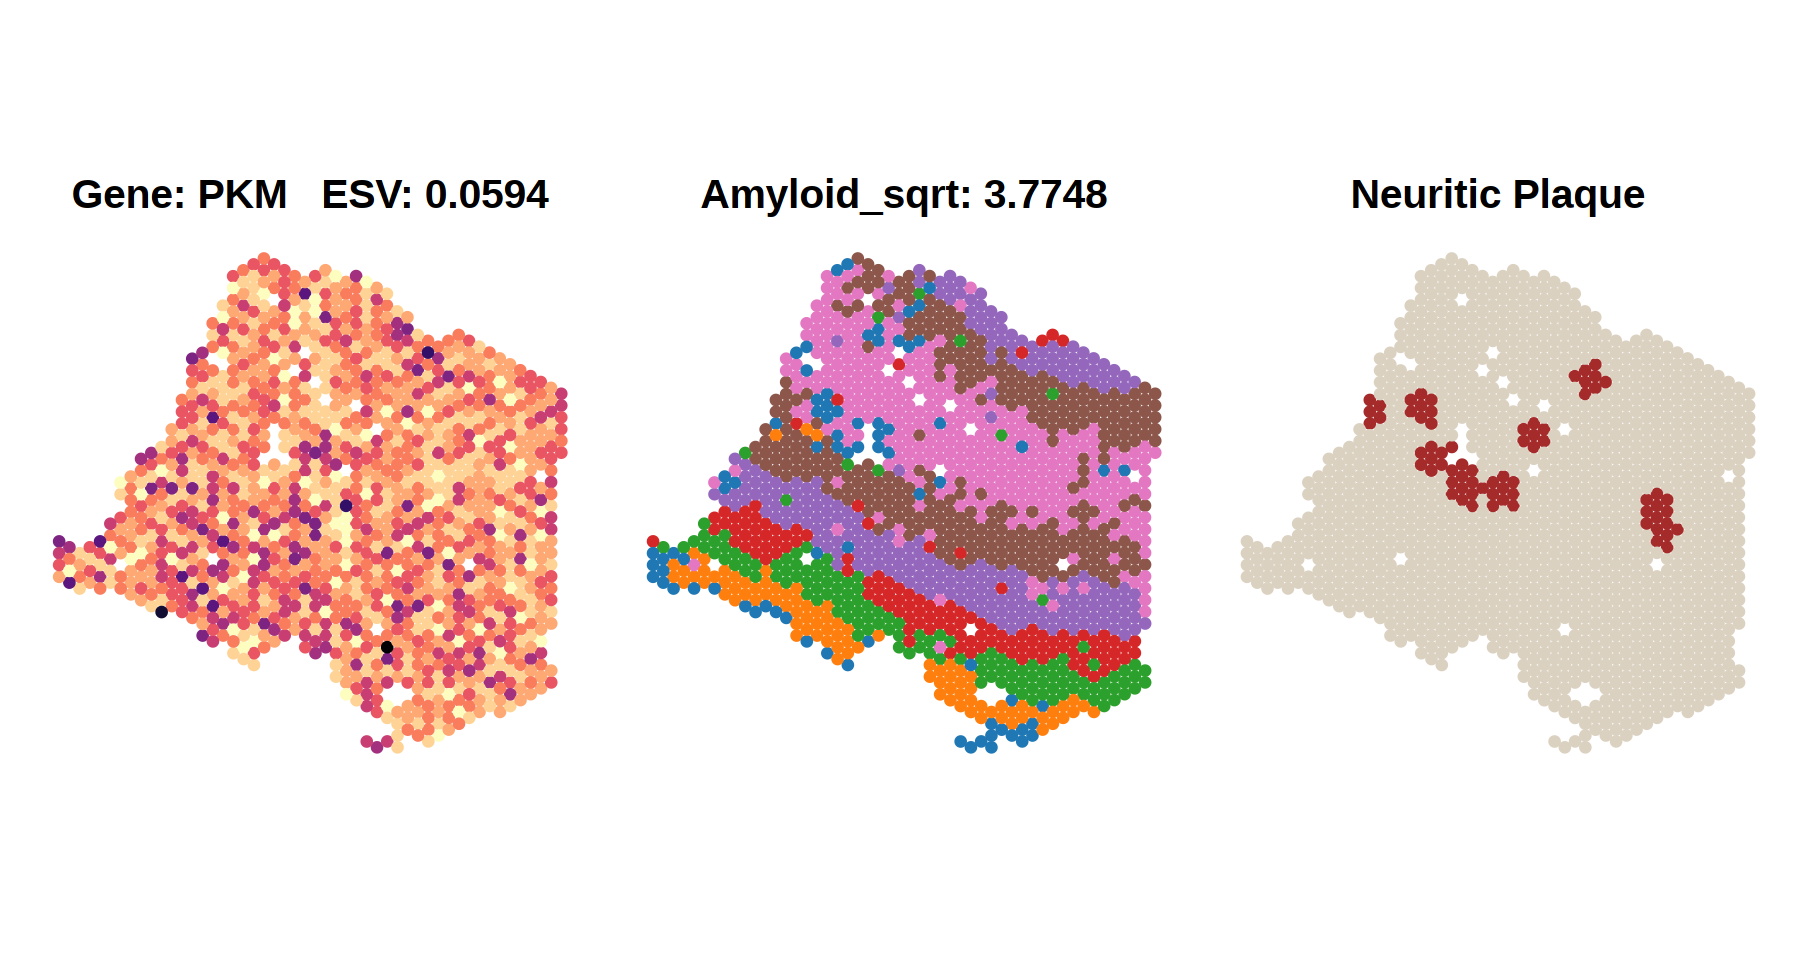
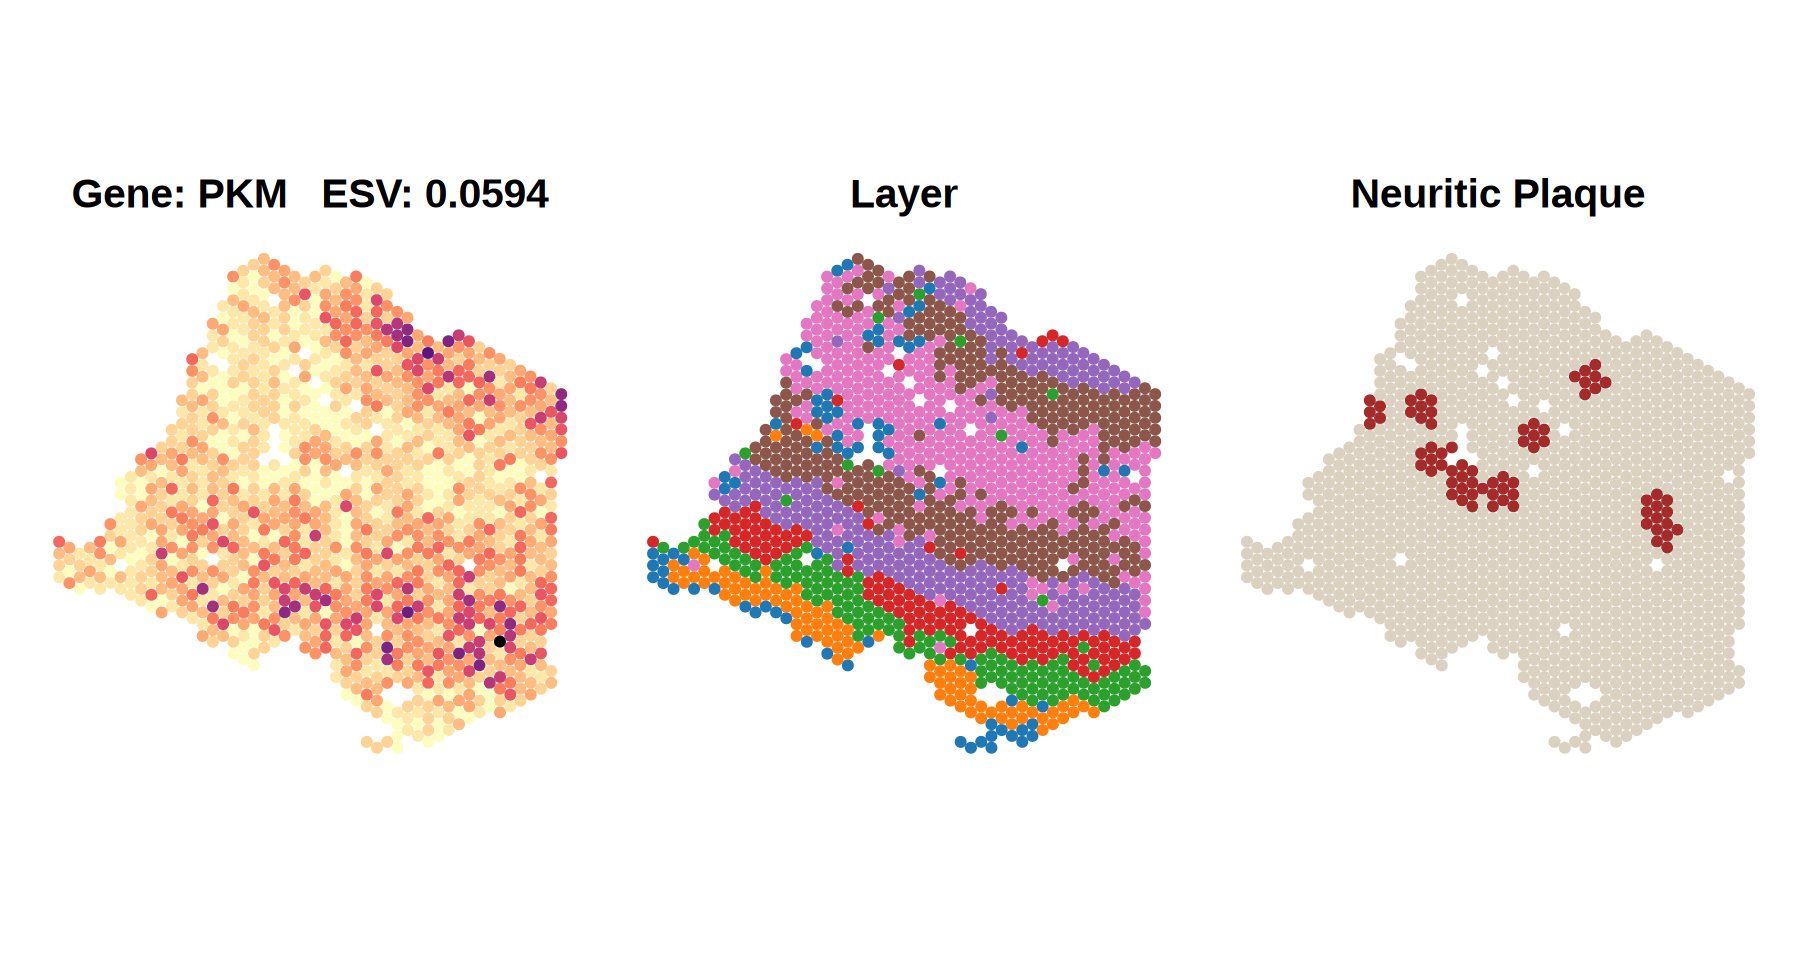
update vignettes

diff --git a/README.md b/README.md
@@ -54,10 +54,11 @@ install.packages(c("Rcpp", "RcppML", "pracma", "RANN", "fields", "Matrix"))
 | [Installation](https://hanbyul-lee.github.io/spacelink/articles/installation.html) | Setup | 3m |
 | [Quick Start](https://hanbyul-lee.github.io/spacelink/articles/quick_start.html) | Get started with a minimal working example | 10s |
 | [Overview](https://hanbyul-lee.github.io/spacelink/articles/overview.html) | Descriptions of main functions | - |
-| [Spacelink Global SVG Vignette](https://hanbyul-lee.github.io/spacelink/articles/spacelink_vignette.html) | Examples and guides for Spacelink analysis at the global tissue level | 5s |
+| [Spacelink Global SVG Vignette](https://hanbyul-lee.github.io/spacelink/articles/spacelink_vignette.html) | Examples and guides for Spacelink analysis at the global tissue level | 10s |
 | [Spacelink ct-SVG Vignette](https://hanbyul-lee.github.io/spacelink/articles/spacelink_ctSVG_vignette.html) | Examples and guides for Spacelink (ct-SVG) analysis at the cell-type-specific level | 10s |
 | [Illustration on CosMx Data](https://hanbyul-lee.github.io/spacelink/articles/illustration_on_cosmx_data.html) | Application of Spacelink on a large-scale single-cell resolution dataset | 50m |
 | [Illustration on Visium Data](https://hanbyul-lee.github.io/spacelink/articles/illustration_on_visium_data.html) | Application of Spacelink on a medium-scale spot resolution dataset | 20m |
 | [Disease Informativeness Evaluation](https://hanbyul-lee.github.io/spacelink/articles/disease_informativeness_evaluation.html) | Evaluation of ESV disease informativeness using PoPS (Polygenic Priority Score) | 2m |
+| [AD Data Analysis](https://hanbyul-lee.github.io/spacelink/articles/AD_data_analysis.html) | Applying Spacelink to identify spatial gene expression changes in Alzheimer’s Disease | 1m |
 | [Lengthscale Estimation](https://hanbyul-lee.github.io/spacelink/articles/lengthscale_estimation.html) | Comparison of length-scale estimation performance | 5m |
 | [Runtime & Memory Usage](https://hanbyul-lee.github.io/spacelink/articles/runtime_memory_usage.html) | Benchmarks of computational time and memory requirements across different dataset sizes | 12m |
